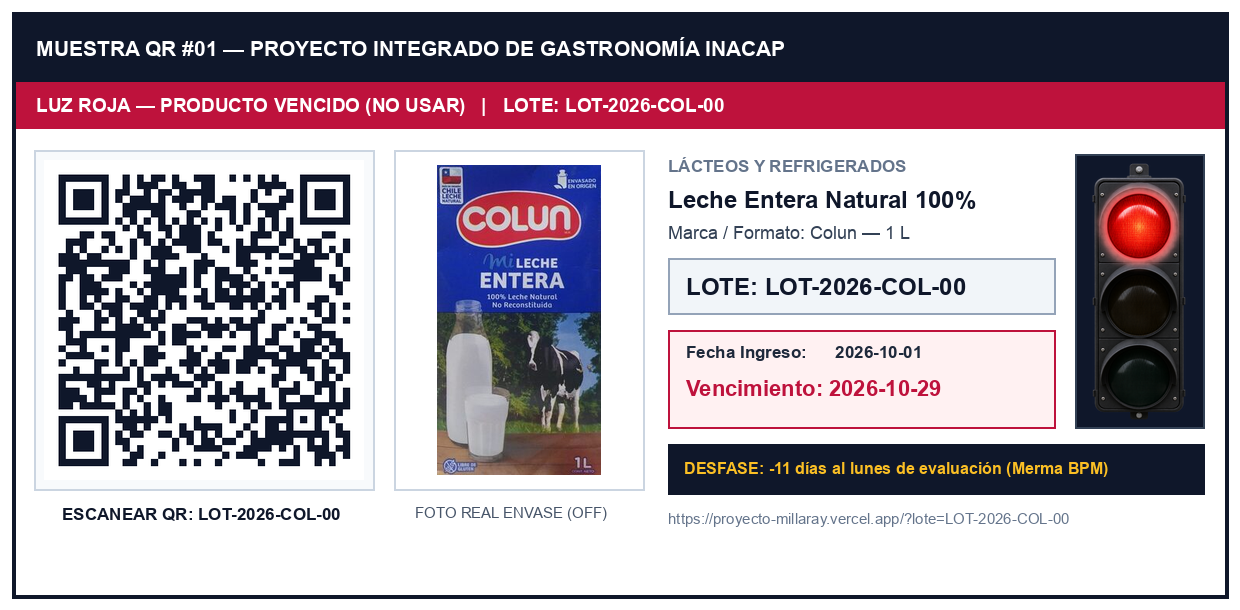
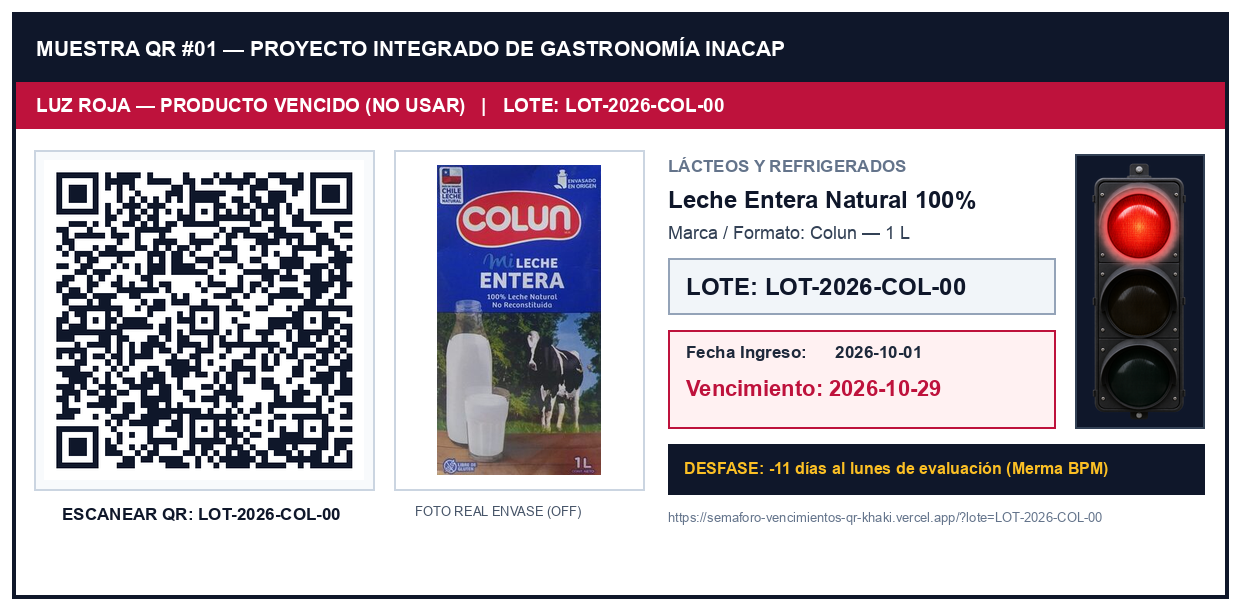
Actualizar URL oficial de Vercel en muestras QR imprimibles

Changed region(s): [[0.0306, 0.2803, 0.3065, 0.7787], [0.521, 0.841, 0.8887, 0.8721], [0.3371, 0.8098, 0.4903, 0.8721]]

diff --git a/src/components/QrModal.tsx b/src/components/QrModal.tsx
@@ -40,7 +40,7 @@ export default function QrModal({ lote, onClose }: QrModalProps) {
     const base =
       typeof window !== "undefined"
         ? window.location.origin
-        : "https://proyecto-millaray.vercel.app";
+        : "https://semaforo-vencimientos-qr-khaki.vercel.app";
     const targetUrl = `${base}/?lote=${encodeURIComponent(lote.codigo_lote)}`;
     setUrlInspeccion(targetUrl);
 
